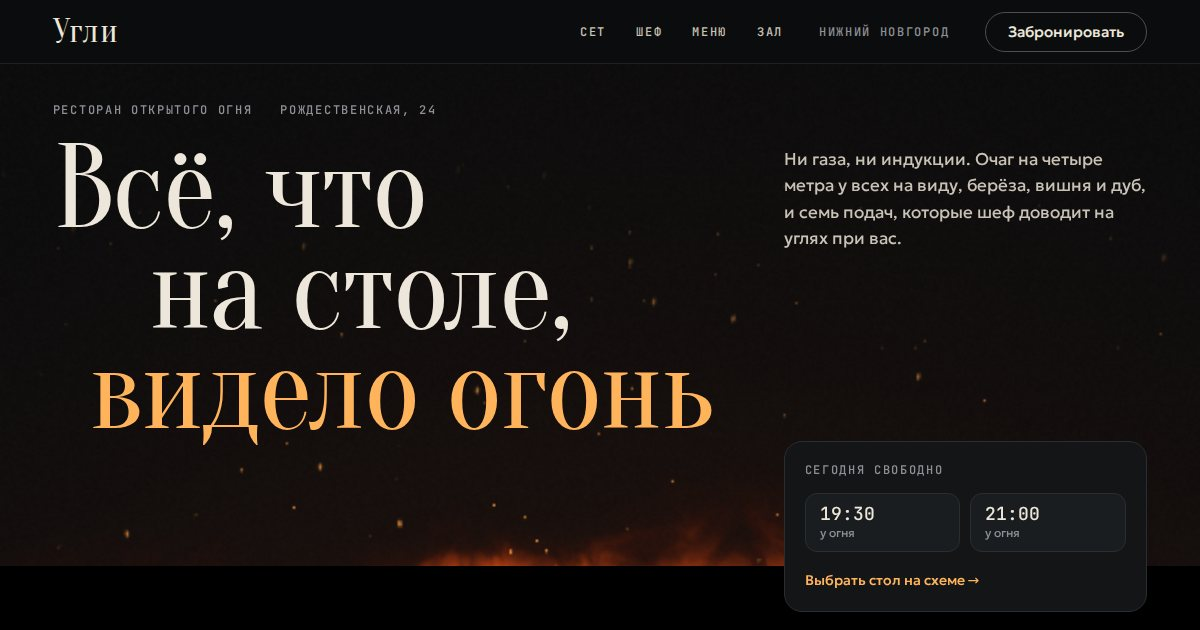
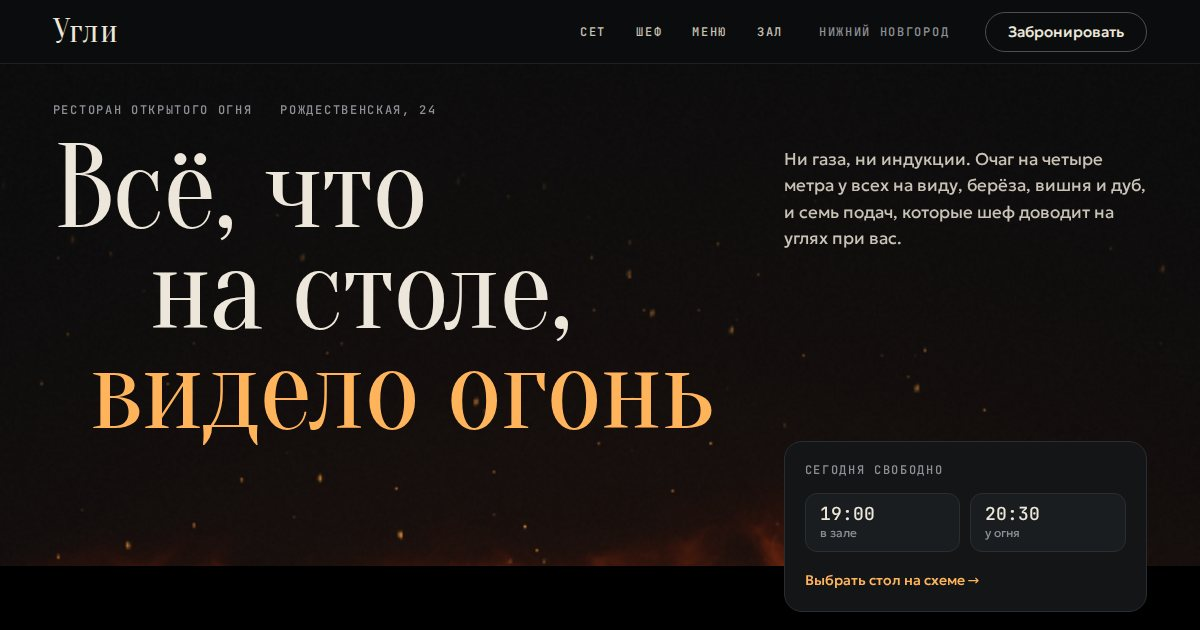
Угли: время брони на 360 больше не уезжает за край

diff --git a/ugli-restoran/assets/css/site.css b/ugli-restoran/assets/css/site.css
@@ -225,7 +225,7 @@ main, .podval { position: relative; z-index: 1; }
 .dni button b { font: 500 18px/1 var(--mono); }
 .dni button[aria-checked="true"] { background: var(--kost); color: var(--zola); border-color: var(--kost); }
 .dni button[aria-checked="true"] small { color: #4b4f53; }
-.vremya { display: grid; grid-template-columns: repeat(5, 1fr); gap: 6px; }
+.vremya { display: grid; grid-template-columns: repeat(5, minmax(0, 1fr)); gap: 6px; }
 .vremya button { display: flex; flex-direction: column; align-items: flex-start; gap: 4px; padding: 10px 10px; border-radius: 10px; border: 1px solid var(--line); background: var(--sloy); text-align: left; transition: background .25s, border-color .25s, color .25s; }
 .vremya button b { font: 500 15px/1 var(--mono); }
 .vremya button small { font: 400 11px/1.2 var(--sans); color: var(--pepel); }
@@ -425,6 +425,19 @@ main, .podval { position: relative; z-index: 1; }
   .podval-cols { grid-template-columns: 1fr; gap: 30px; padding-bottom: 6vh; }
   .podval-line { flex-direction: column; gap: 6px; }
   .podval-slovo { font-size: 50vw; padding-bottom: 16vh; margin-top: 6vh; }
+}
+
+/* Узкая колонка выбора: телефон 360 и уже (284px внутри) и планшет лёжа 761–900 (249px).
+   Пять столбцов времени по 61–67px туда не влезали, «19:30» и «22:00» уезжали за край */
+@media (min-width: 761px) and (max-width: 1100px) and (min-aspect-ratio: 9/10) {
+  .bron { grid-template-columns: minmax(0, 1.25fr) minmax(320px, 1fr); }
+  .bron-pick.glow { padding: 18px; }
+}
+@media (max-width: 380px), (min-width: 761px) and (max-width: 1100px) and (min-aspect-ratio: 9/10) {
+  .vremya { gap: 4px; }
+  .vremya button { padding: 8px 5px; }
+  .vremya button b { font-size: 13px; }
+  .vremya button small { font-size: 10px; }
 }
 
 @media (prefers-reduced-motion: reduce) {

diff --git a/ugli-restoran/OBRAZCY.md b/ugli-restoran/OBRAZCY.md
@@ -1,0 +1,47 @@
+# «Угли» — образцы и компоненты (13.10.2026)
+
+Ресторан открытого огня. Образцы Mobbin смотрены листами-превью глазами,
+компоненты 21st разобраны и перенесены приёмом в статический HTML (без React и Tailwind).
+
+## Mobbin
+
+Поиски: 7 секций сайтов (герой, меню, шеф, отзывы, подвал, закреплённые шаги, второй заход по меню),
+3 экрана и 1 сценарий брони (Resy, OpenTable, схемы мест), Tock в базе Mobbin нет
+(поиск по нему вернул GetYourGuide и Klook — не взято).
+
+| Часть страницы | Продукт | mobbin_url | Что взял |
+|---|---|---|---|
+| Первый экран | Savor | https://mobbin.com/sites/sections/3310e934-d36d-44a4-b4b7-65297ca0924b | огромная узкая антиква, слова разнесены по строкам лесенкой, тонкая линия-росчерк между ними, маленькая карточка брони в правом нижнем углу поверх тёмного кадра |
+| Первый экран | sweetgreen | https://mobbin.com/sites/sections/a7dbacd8-c85d-459f-b06f-635450c43365 | маленькая подпись над заголовком и одна кнопка, блюдо — главный предмет кадра |
+| Сет по подачам | Robot.com | https://mobbin.com/sites/sections/edad3071-c6c4-4851-8e30-a4cdd746d129 | номера шагов колонкой рядом с предметом, активный шаг раскрыт, остальные свёрнуты в номер |
+| Сет по подачам | Trawelt | https://mobbin.com/sites/sections/629aae31-4a94-46df-a97f-3180a6ae22e0 | огромный номер шага, обрезанный краем, и подпись этапа мелким текстом рядом |
+| Меню | Monte | https://mobbin.com/sites/sections/9cea9d4c-5557-44cf-97e4-41d7d086df12 | меню как типографский лист: три колонки разделов, позиции капсом, цена отдельным столбцом, состав мелкой строкой под названием |
+| Меню | sweetgreen | https://mobbin.com/sites/sections/ef00c77c-841c-4e12-b207-df44ce97a57a | переключатель разделов крупными словами с точкой под активным |
+| Шеф | Savor | https://mobbin.com/sites/sections/9631d86f-704f-4e3e-8016-d78a959aaa44 | имя-заголовок огромной антиквой поверх тёмного крупного плана, должность моноширинной подписью |
+| Шеф | Koto | https://mobbin.com/sites/sections/27c0d2f2-3567-4e77-8907-2608201a690c | тёмный экран, крупная фраза и плотная россыпь имён команды мелким текстом |
+| Отзывы | ExpressVPN | https://mobbin.com/sites/sections/53e9f265-251d-4da3-bd3f-d05e0aca1fc1 | отзывы крупной антиквой без карточек, источник капсом под цитатой, рейтинг площадок отдельным столбцом |
+| Отзывы | VanMoof | https://mobbin.com/sites/sections/e7517a67-32f9-413d-98ca-742b6bdd0206 | одна цитата за раз со стрелками, источник над цитатой |
+| Подвал | Waka Waka | https://mobbin.com/sites/sections/98fd09b2-7134-404b-a9df-d6d91c49ec54 | название во всю ширину экрана, под ним строка адреса и контактов |
+| Подвал | Monte | https://mobbin.com/sites/sections/6ecba422-fe26-482b-8225-8e24ec959d84 | три колонки: связь, часы работы, как найти |
+| Бронь: время | Resy | https://mobbin.com/screens/e4f524c1-e8e3-4e25-bb4c-b736d43c28a1 | кнопки времени с подписью зоны под временем («у огня», «в зале»), полоса «2 гостя · сегодня» внизу |
+| Бронь: время | Resy | https://mobbin.com/screens/cec4bb1b-6dc6-4ce5-8292-baa55e0aa01f | время разбито на обед и ужин, тёмная тема брони |
+| Бронь: карточка | OpenTable | https://mobbin.com/screens/ff216c4e-0904-498b-8167-452d3d10b208 | карточка брони сбоку: гости, дата, время, ряд свободного времени, «сегодня забронировали N раз» |
+| Бронь: гости и дата | Deliveroo (Dishoom) | https://mobbin.com/flows/273b91d4-ed45-4e31-bdcd-44c392e46a3a | число гостей рядом кругами 1–8, полоса дней, время группами |
+| Бронь: удержание | Beli | https://mobbin.com/flows/65f6219f-b6e7-41a7-b844-2910fce8bf3e | «держим стол за вами 4:57» обратным отсчётом, потом экран подтверждения со сводкой |
+| Бронь: схема | Kiwi.com | https://mobbin.com/screens/ce35b670-b30e-42df-99ff-835588de07a0 | выбор места прямо на схеме: легенда (свободно, занято, выбрано), всплывашка «занять место 3-A?» с подтверждением |
+| Бронь: схема | TravelPerk | https://mobbin.com/screens/d5870b9f-4132-45b6-b969-c84bb3a4478a | занятые места перечёркнуты, выбранное залито акцентом |
+
+Прецеденты (2+ продукта): огромная антиква поверх тёмного кадра (Savor ×2), подвал-название
+во всю ширину (Waka Waka, MOUTHWASH, Structured), время кнопками (Resy, OpenTable, Google Maps),
+выбор на схеме с легендой (Kiwi, TravelPerk, Expedia).
+
+## 21st.dev
+
+| id | Компонент | Что взял |
+|---|---|---|
+| 31148 | Shader Fire | фрагментный шейдер огня: fbm с двойным искажением пространства (языки, а не пятна), сужение к верху, горячее ядро у основания, мерцание, отклик на курсор. Переписан под WebGL без React: свои цвета углей, искры, высота и жар меняются по подаче сета |
+| 19257 | Text Reveal (Mask) | строки заголовков в overflow:hidden, каждая выезжает снизу с yPercent 110 → 0, expo-out, шаг 0,08 с. Сделано на GSAP по прокрутке |
+| 25283 | Glow Card Grid | рамка, подсвеченная через mask-composite: exclude (border-box минус padding-box) и свечение за курсором. Перенесено на карточку брони и выбранный стол |
+
+Не взяты: Floating Particles 5981 (three.js целиком ради искр — искры сделаны в том же шейдере),
+Pixel Fire Button 23163 (пиксельный огонь в кнопке — игрушечно для ресторана такого уровня).
